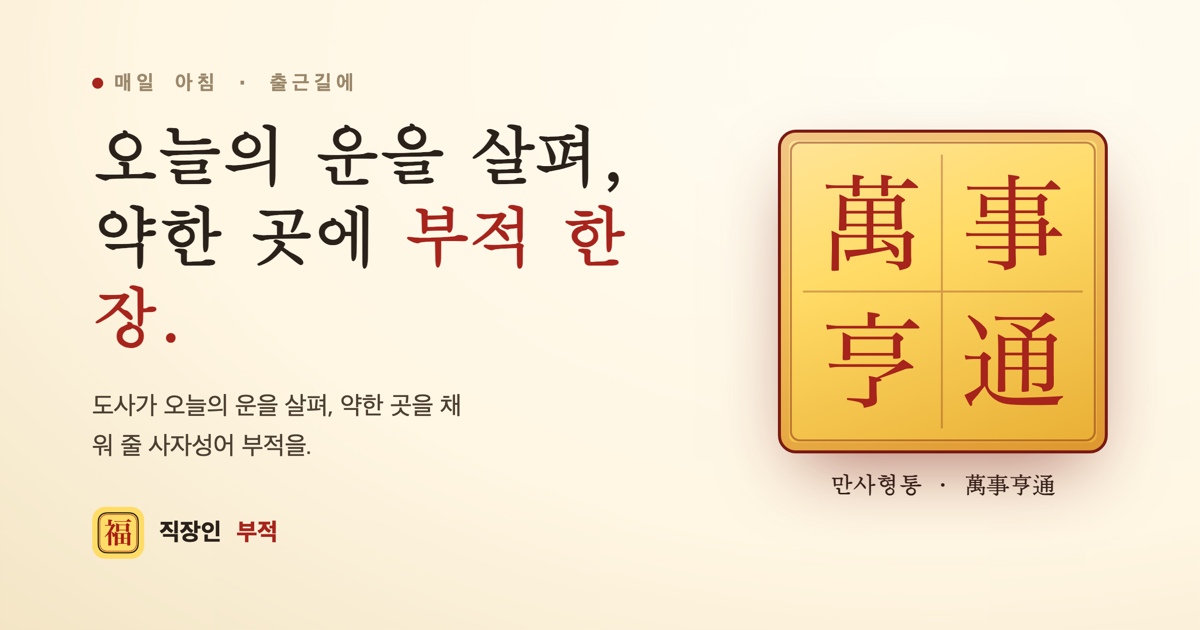
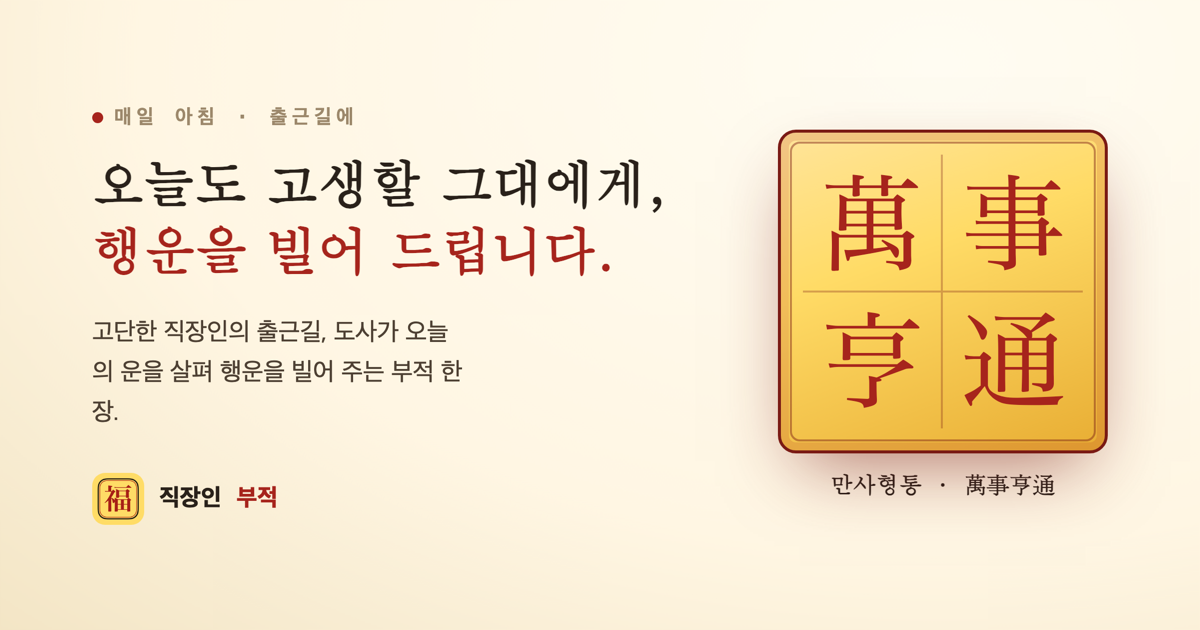
직장인 부적 landing: drop invented fortune items, reframe as blessing
The 행운의 색/수/방위 items weren't real app features — remove them.
Reframe the hero around the actual concept: writing a talisman that
wishes luck to weary office workers before their commute ("오늘도
고생할 그대에게, 행운을 빌어 드립니다"). Keep the real 총운/four-area
luck. Update meta + OG card to match. ?v=4.

Changed region(s): [[0.0617, 0.1206, 0.555, 0.6635], [0.0617, 0.754, 0.2467, 0.9048], [0.0617, 0.6937, 0.2775, 0.7238]]

diff --git a/salarycharm/index.html b/salarycharm/index.html
@@ -4,20 +4,20 @@
 <meta charset="utf-8">
 <meta name="viewport" content="width=device-width, initial-scale=1">
 <title>직장인 부적 — 매일 사자성어 부적과 오늘의 운</title>
-<meta name="description" content="출근길, 능청맞은 철학관 도사가 오늘의 운을 살펴 약한 곳을 채워 줄 사자성어 부적 한 장을 써 드립니다. 다시 뽑고, 동료에게도 한 장. 광고도 계정도 없습니다. kkiruk studio.">
+<meta name="description" content="출근하기 전, 고단한 직장인에게 도사가 오늘의 운을 살펴 약한 곳을 채워 줄 사자성어 부적 한 장을 써 행운을 빌어 드립니다. 다시 뽑고, 동료에게도 한 장. 광고도 계정도 없습니다. kkiruk studio.">
 <link rel="canonical" href="https://www.kkirukstudio.com/salarycharm/">
 <link rel="icon" type="image/png" href="assets/icon.png">
 <link rel="apple-touch-icon" href="assets/icon.png">
 <meta property="og:type" content="website">
 <meta property="og:site_name" content="kkiruk studio">
 <meta property="og:title" content="직장인 부적 — 매일 사자성어 부적과 오늘의 운">
-<meta property="og:description" content="출근길, 도사가 오늘의 운을 살펴 약한 곳을 채워 줄 사자성어 부적 한 장을 써 드립니다.">
+<meta property="og:description" content="출근 전, 고단한 직장인에게 오늘의 운을 살펴 행운을 빌어 주는 사자성어 부적 한 장.">
 <meta property="og:url" content="https://www.kkirukstudio.com/salarycharm/">
 <meta property="og:image" content="https://www.kkirukstudio.com/salarycharm/assets/og.png">
 <meta property="og:image:width" content="1200">
 <meta property="og:image:height" content="630">
 <meta name="twitter:card" content="summary_large_image">
-<link rel="stylesheet" href="style.css?v=3">
+<link rel="stylesheet" href="style.css?v=4">
 </head>
 <body>
 
@@ -36,9 +36,9 @@
 <section class="hero" style="border-bottom:1px solid var(--paperDeep)">
   <div class="wrap hero-grid">
     <div class="hero-text">
-      <span class="eyebrow">매일 아침 · 출근길에</span>
-      <h1 class="cjk">오늘의 운을 살펴,<br>약한 곳에 <em>부적 한 장.</em></h1>
-      <p class="sub cjk">능청맞은 철학관 도사가 그대의 오늘 운을 살펴, 가장 약한 곳을 채워 줄 사자성어 부적을 한 자 한 자 써 드립니다. 점집의 엄숙함 대신, 직장인의 하루에 웃음 한 줌.</p>
+      <span class="eyebrow">매일 아침 · 출근하기 전에</span>
+      <h1 class="cjk">오늘도 고생할 그대에게,<br><em>행운을 빌어 드립니다.</em></h1>
+      <p class="sub cjk">고단한 직장인의 출근길, 능청맞은 철학관 도사가 오늘의 운을 살펴 가장 약한 곳을 채워 줄 사자성어 부적을 한 자 한 자 써 <em>행운을 빌어 드립니다.</em> 점집의 엄숙함 대신, 하루에 웃음 한 줌.</p>
       <div class="cta-row">
         <span class="btn"> App Store · 곧 출시</span>
         <a class="btn ghost" href="#features">어떤 앱인가요 →</a>
@@ -54,12 +54,7 @@
           <div class="charm-seal">직장인<br>부적</div>
         </div>
         <p class="charm-name">만사형통 · 萬事亨通</p>
-        <p class="charm-drip cjk">「오늘은 무엇을 하든 술술. 결재도, 회의도, 그리고 칼퇴도.」</p>
-        <div class="fortune-items">
-          <div class="fi"><p class="k">행운의 색</p><div class="sw" style="background:#A6241C"></div></div>
-          <div class="fi"><p class="k">행운의 수</p><p class="v">八</p></div>
-          <div class="fi"><p class="k">행운의 방위</p><p class="v">南</p></div>
-        </div>
+        <p class="charm-drip cjk">「오늘 하루, 무엇을 하든 술술 풀리시라. 결재도, 회의도, 그리고 칼퇴도.」</p>
       </div>
     </div>
   </div>
@@ -70,7 +65,7 @@
     <div class="sec-head">
       <span class="eyebrow">오늘의 운</span>
       <h2 class="cjk">그날의 운을, 네 갈래로 살핍니다.</h2>
-      <p class="lede cjk">소통·문서·마음·재물, 그리고 종합운까지. 별점으로 한눈에 보고, 대길·중길·소길·말길·평운으로 오늘의 기운을 가늠하세요. 그리고 <em>가장 약한 곳</em>에 딱 맞는 부적이 처방됩니다.</p>
+      <p class="lede cjk">소통·문서·마음·재물, 그리고 종합운까지. 별점으로 한눈에 보고, 대길·중길·소길·말길·평운으로 오늘의 기운을 가늠하세요. 그리고 <em>가장 약한 곳</em>을 채워, 오늘의 행운을 빌어 드립니다.</p>
     </div>
     <div class="luck-graph" aria-hidden="true">
       <div class="col"><span class="st">★★★★</span><div class="bar" style="height:74%"></div><span class="lbl">소통</span></div>